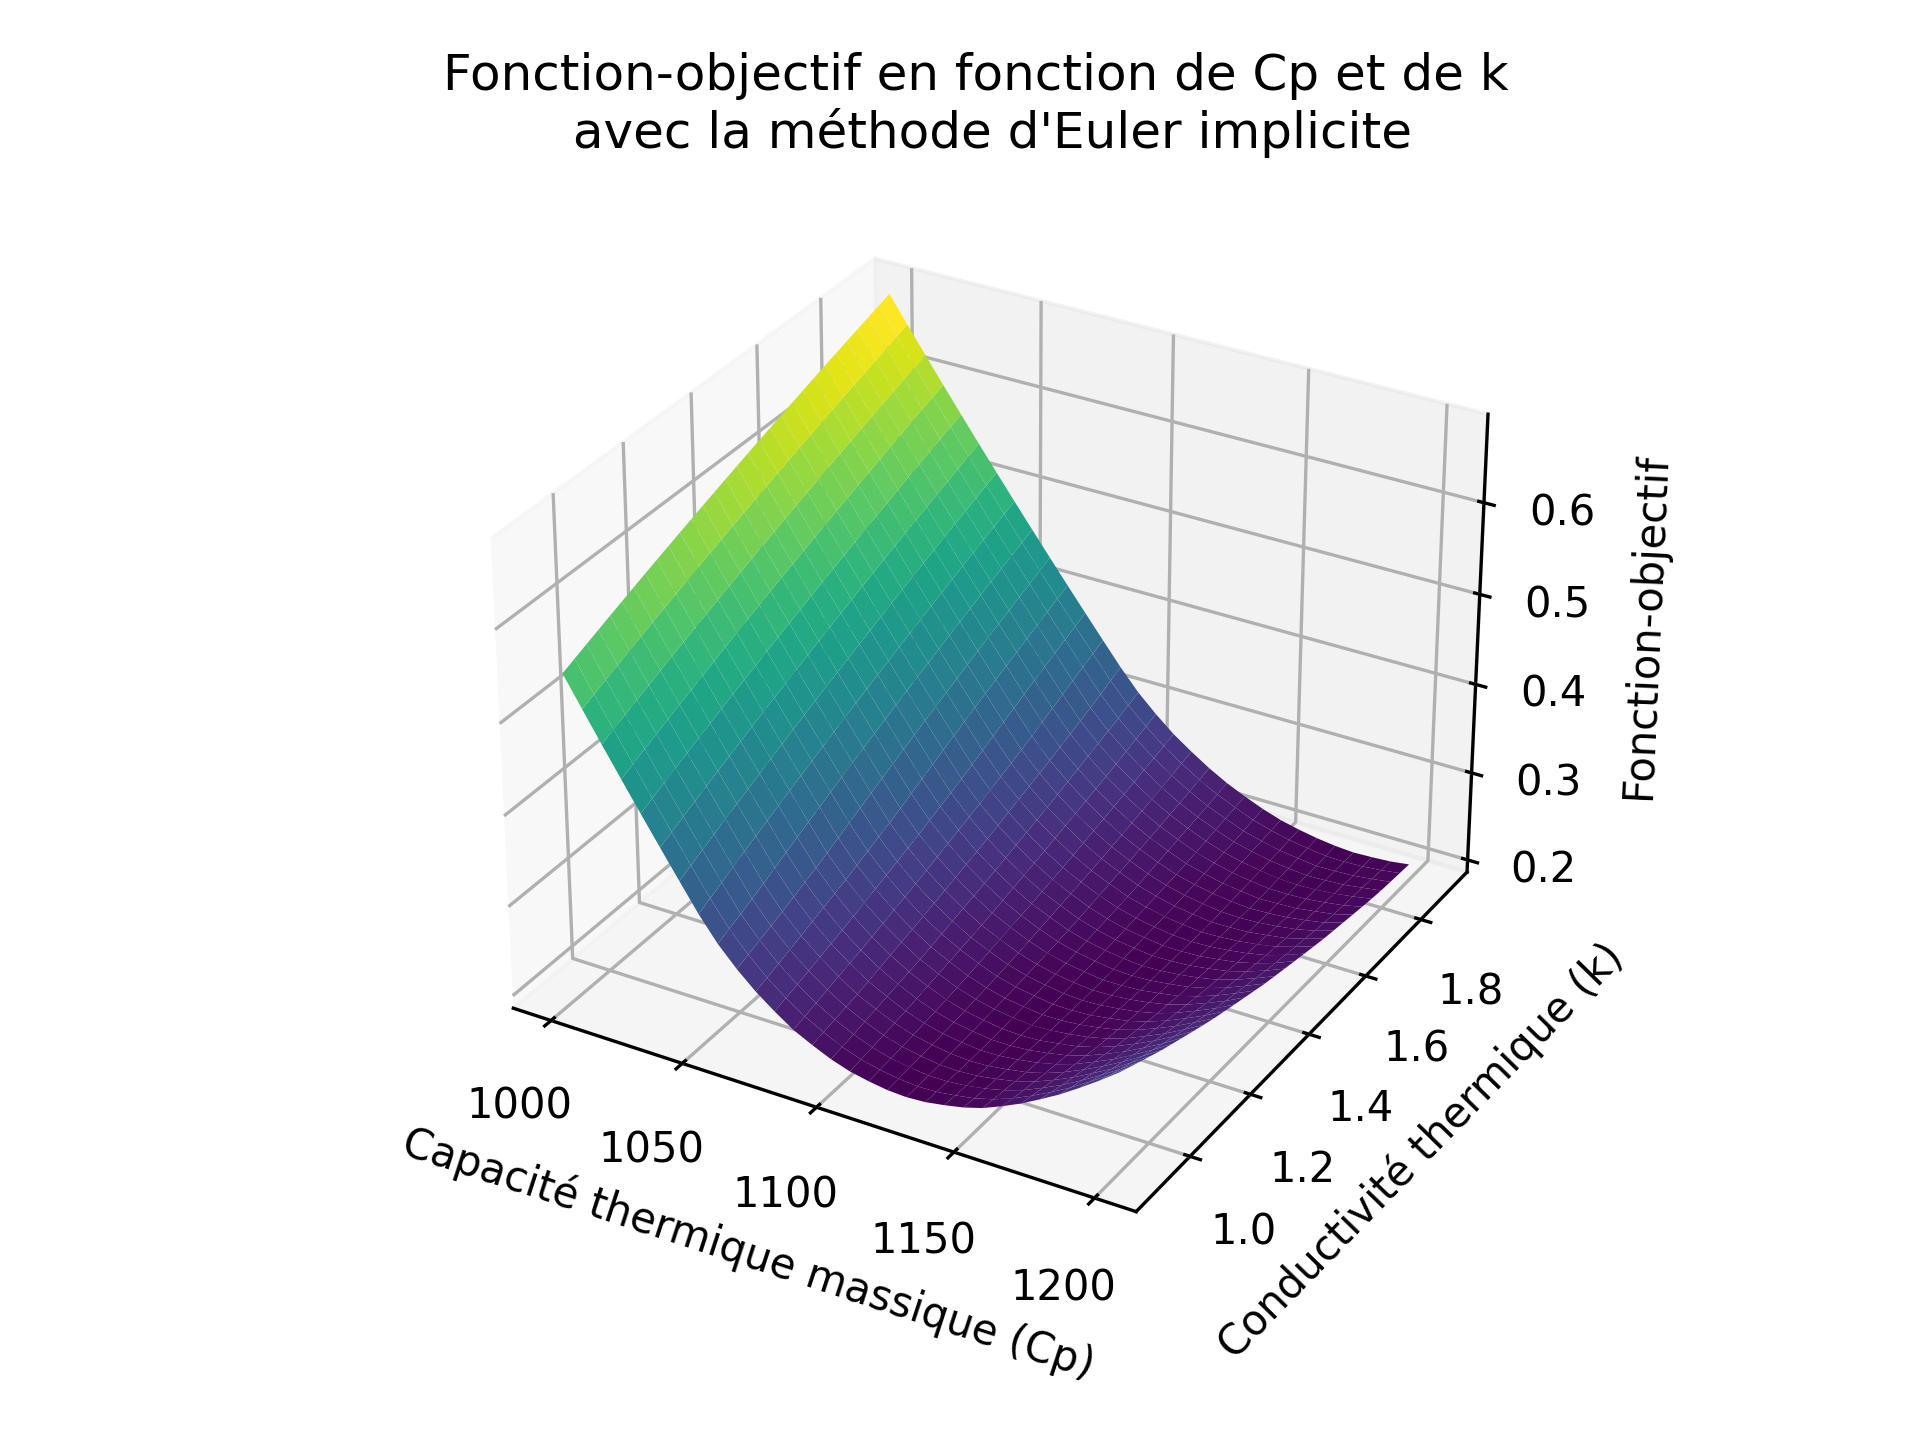
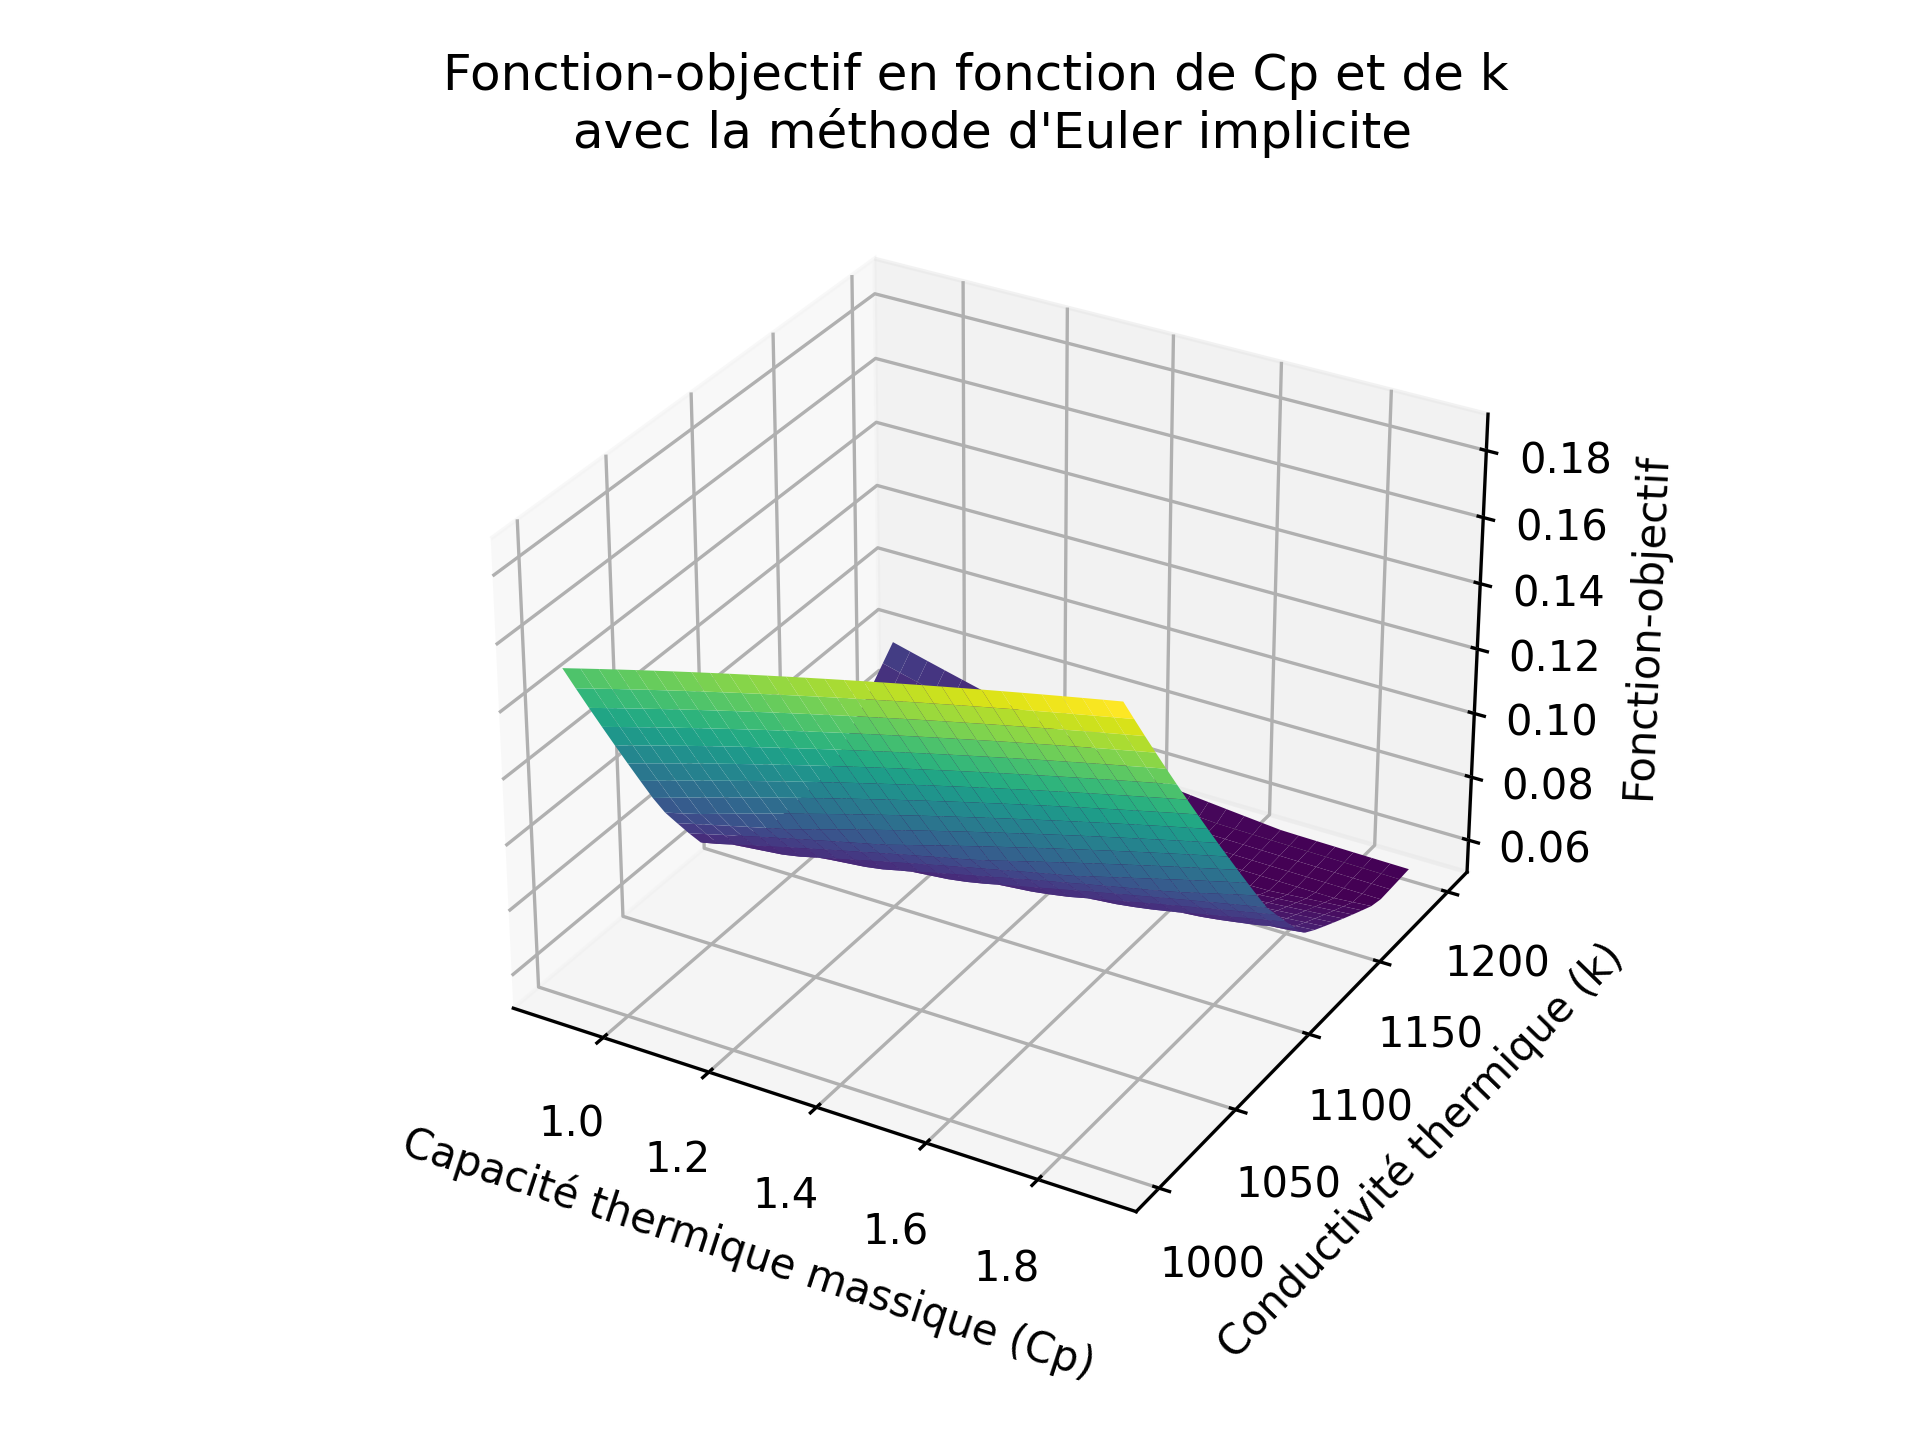
f

diff --git a/Optimisation.py b/Optimisation.py
@@ -13,7 +13,7 @@ class parametres():
     
     Cp = 1000           # Capacité thermique massique [J/(kg*K)]
     k = 0.9             # Conductivité thermique [W/(m*K)]   
-    n = 31               # Nombre de noeuds
+    n = 9               # Nombre de noeuds
     rho = 1.07*10**3   # Masse volumique [kg/(m^3)]
     h = 10              # Coefficient de convection [W/(m^2*K)]
     H = 0.045           # Hauteur de la pâte [m]
